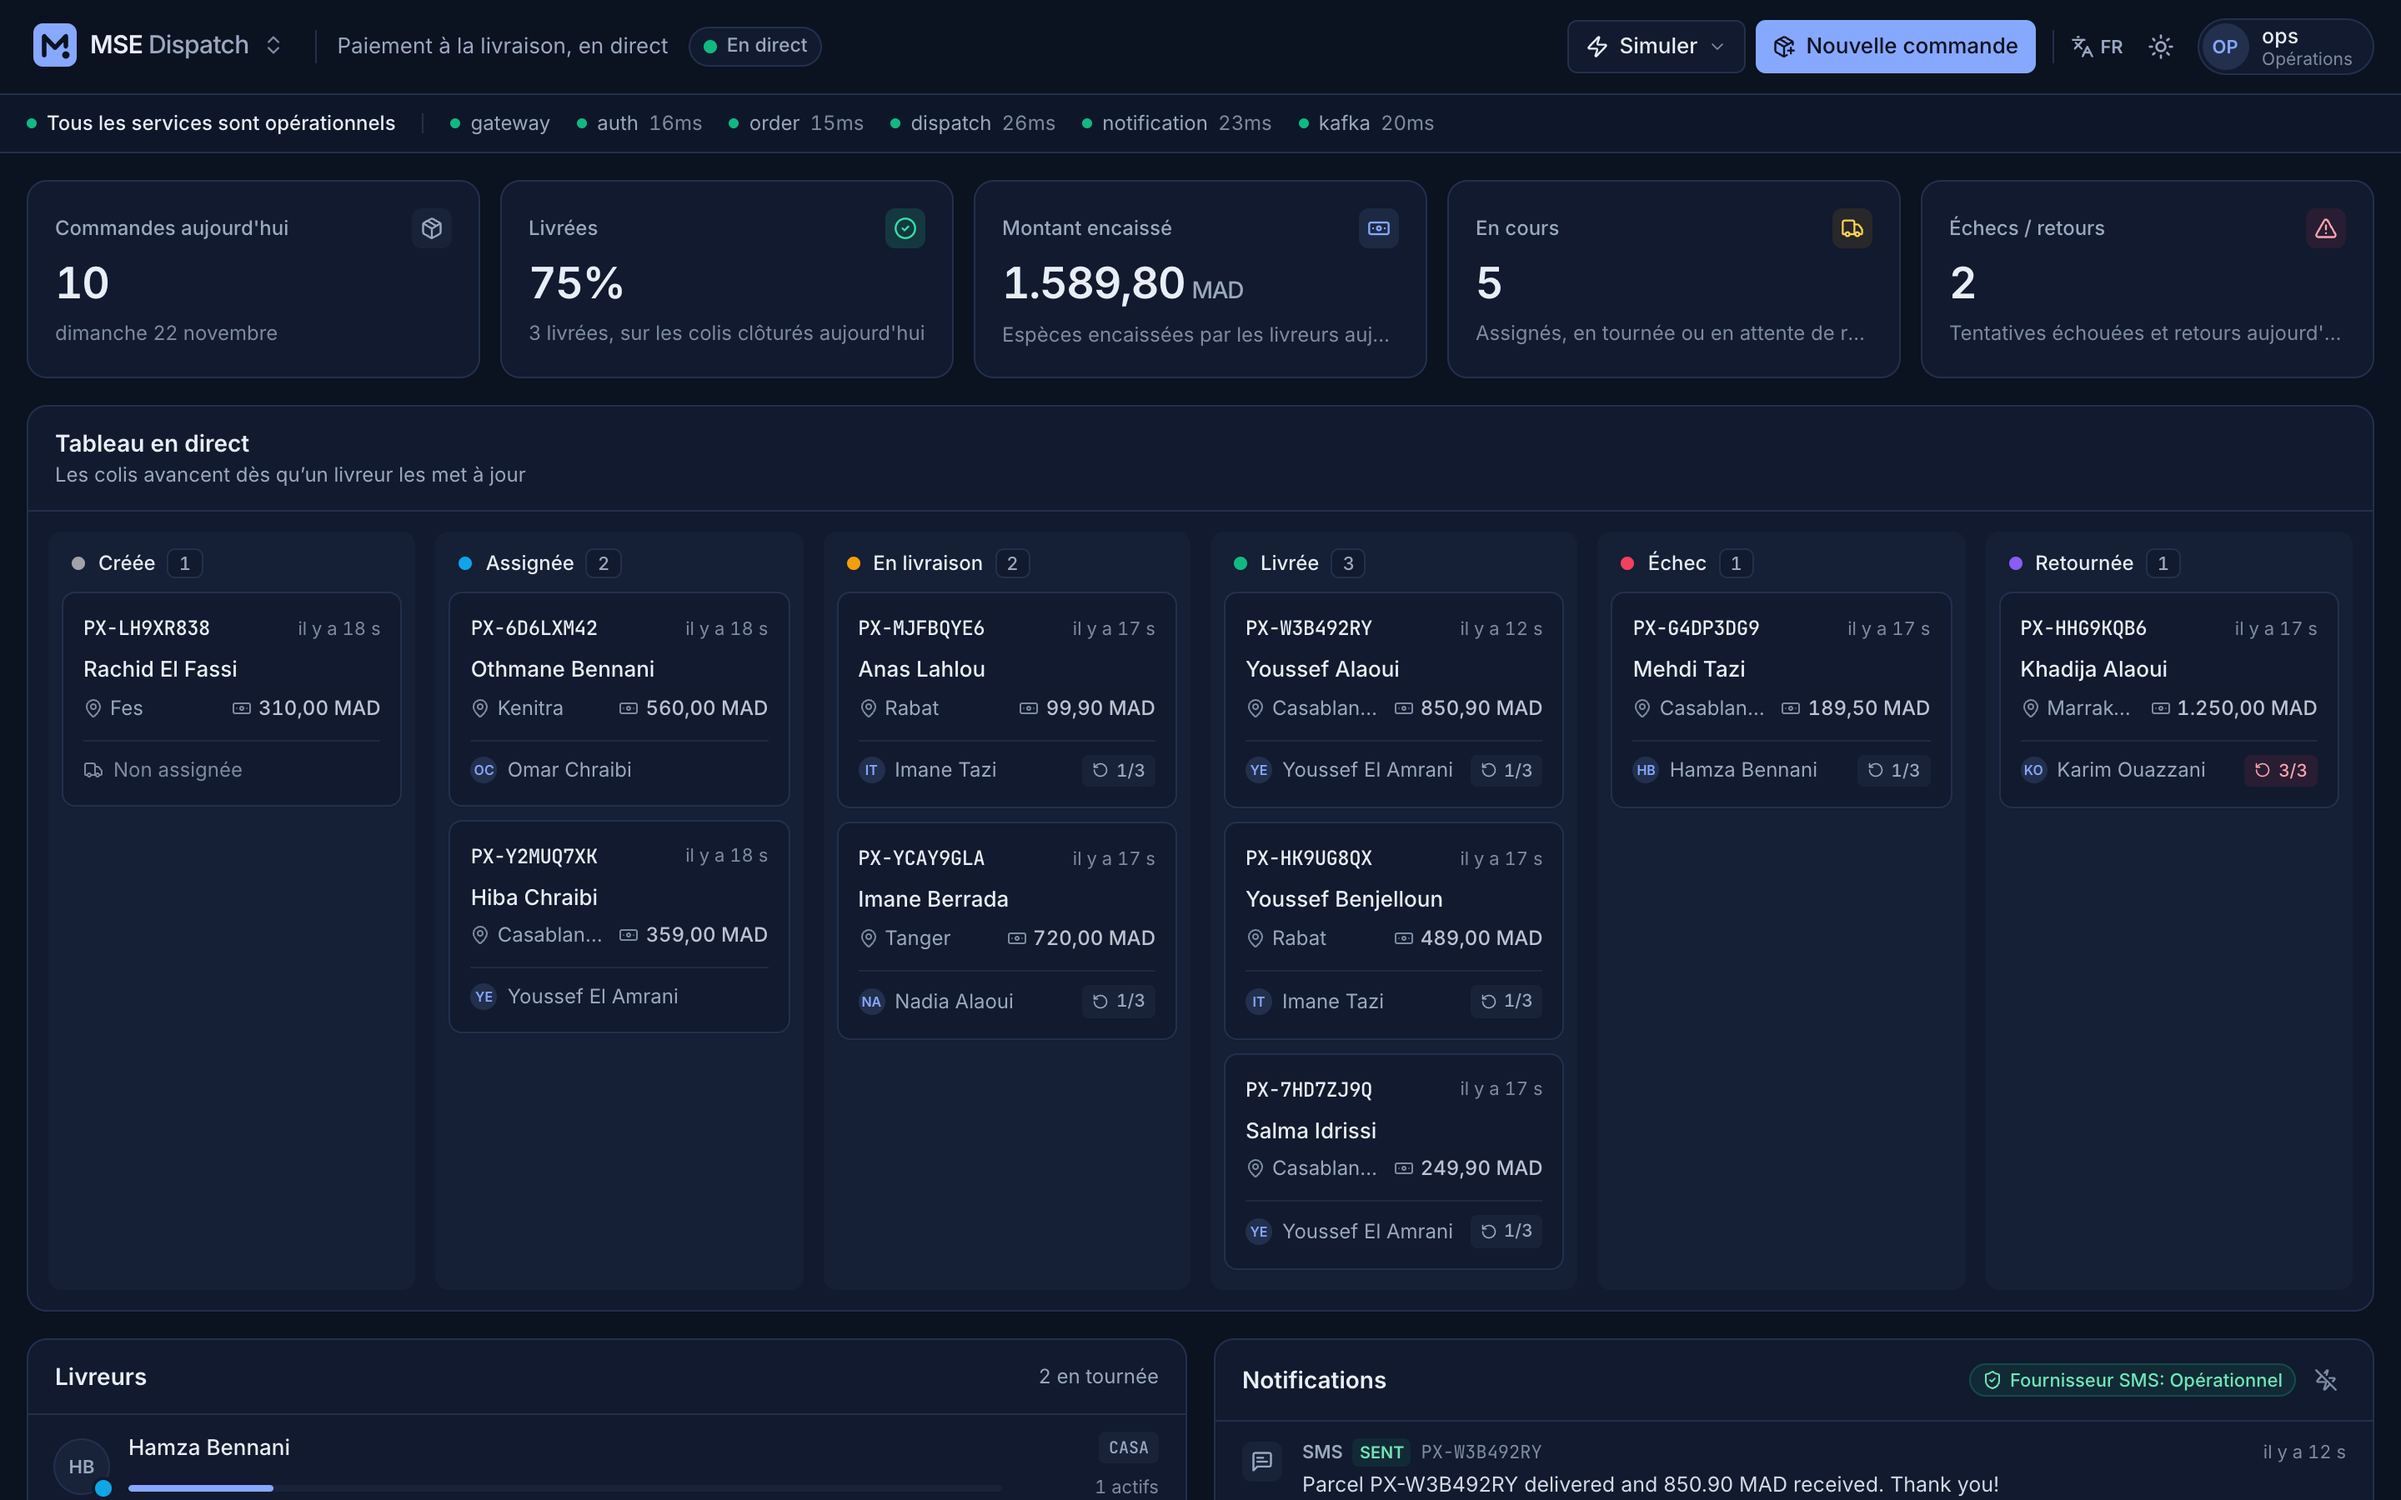
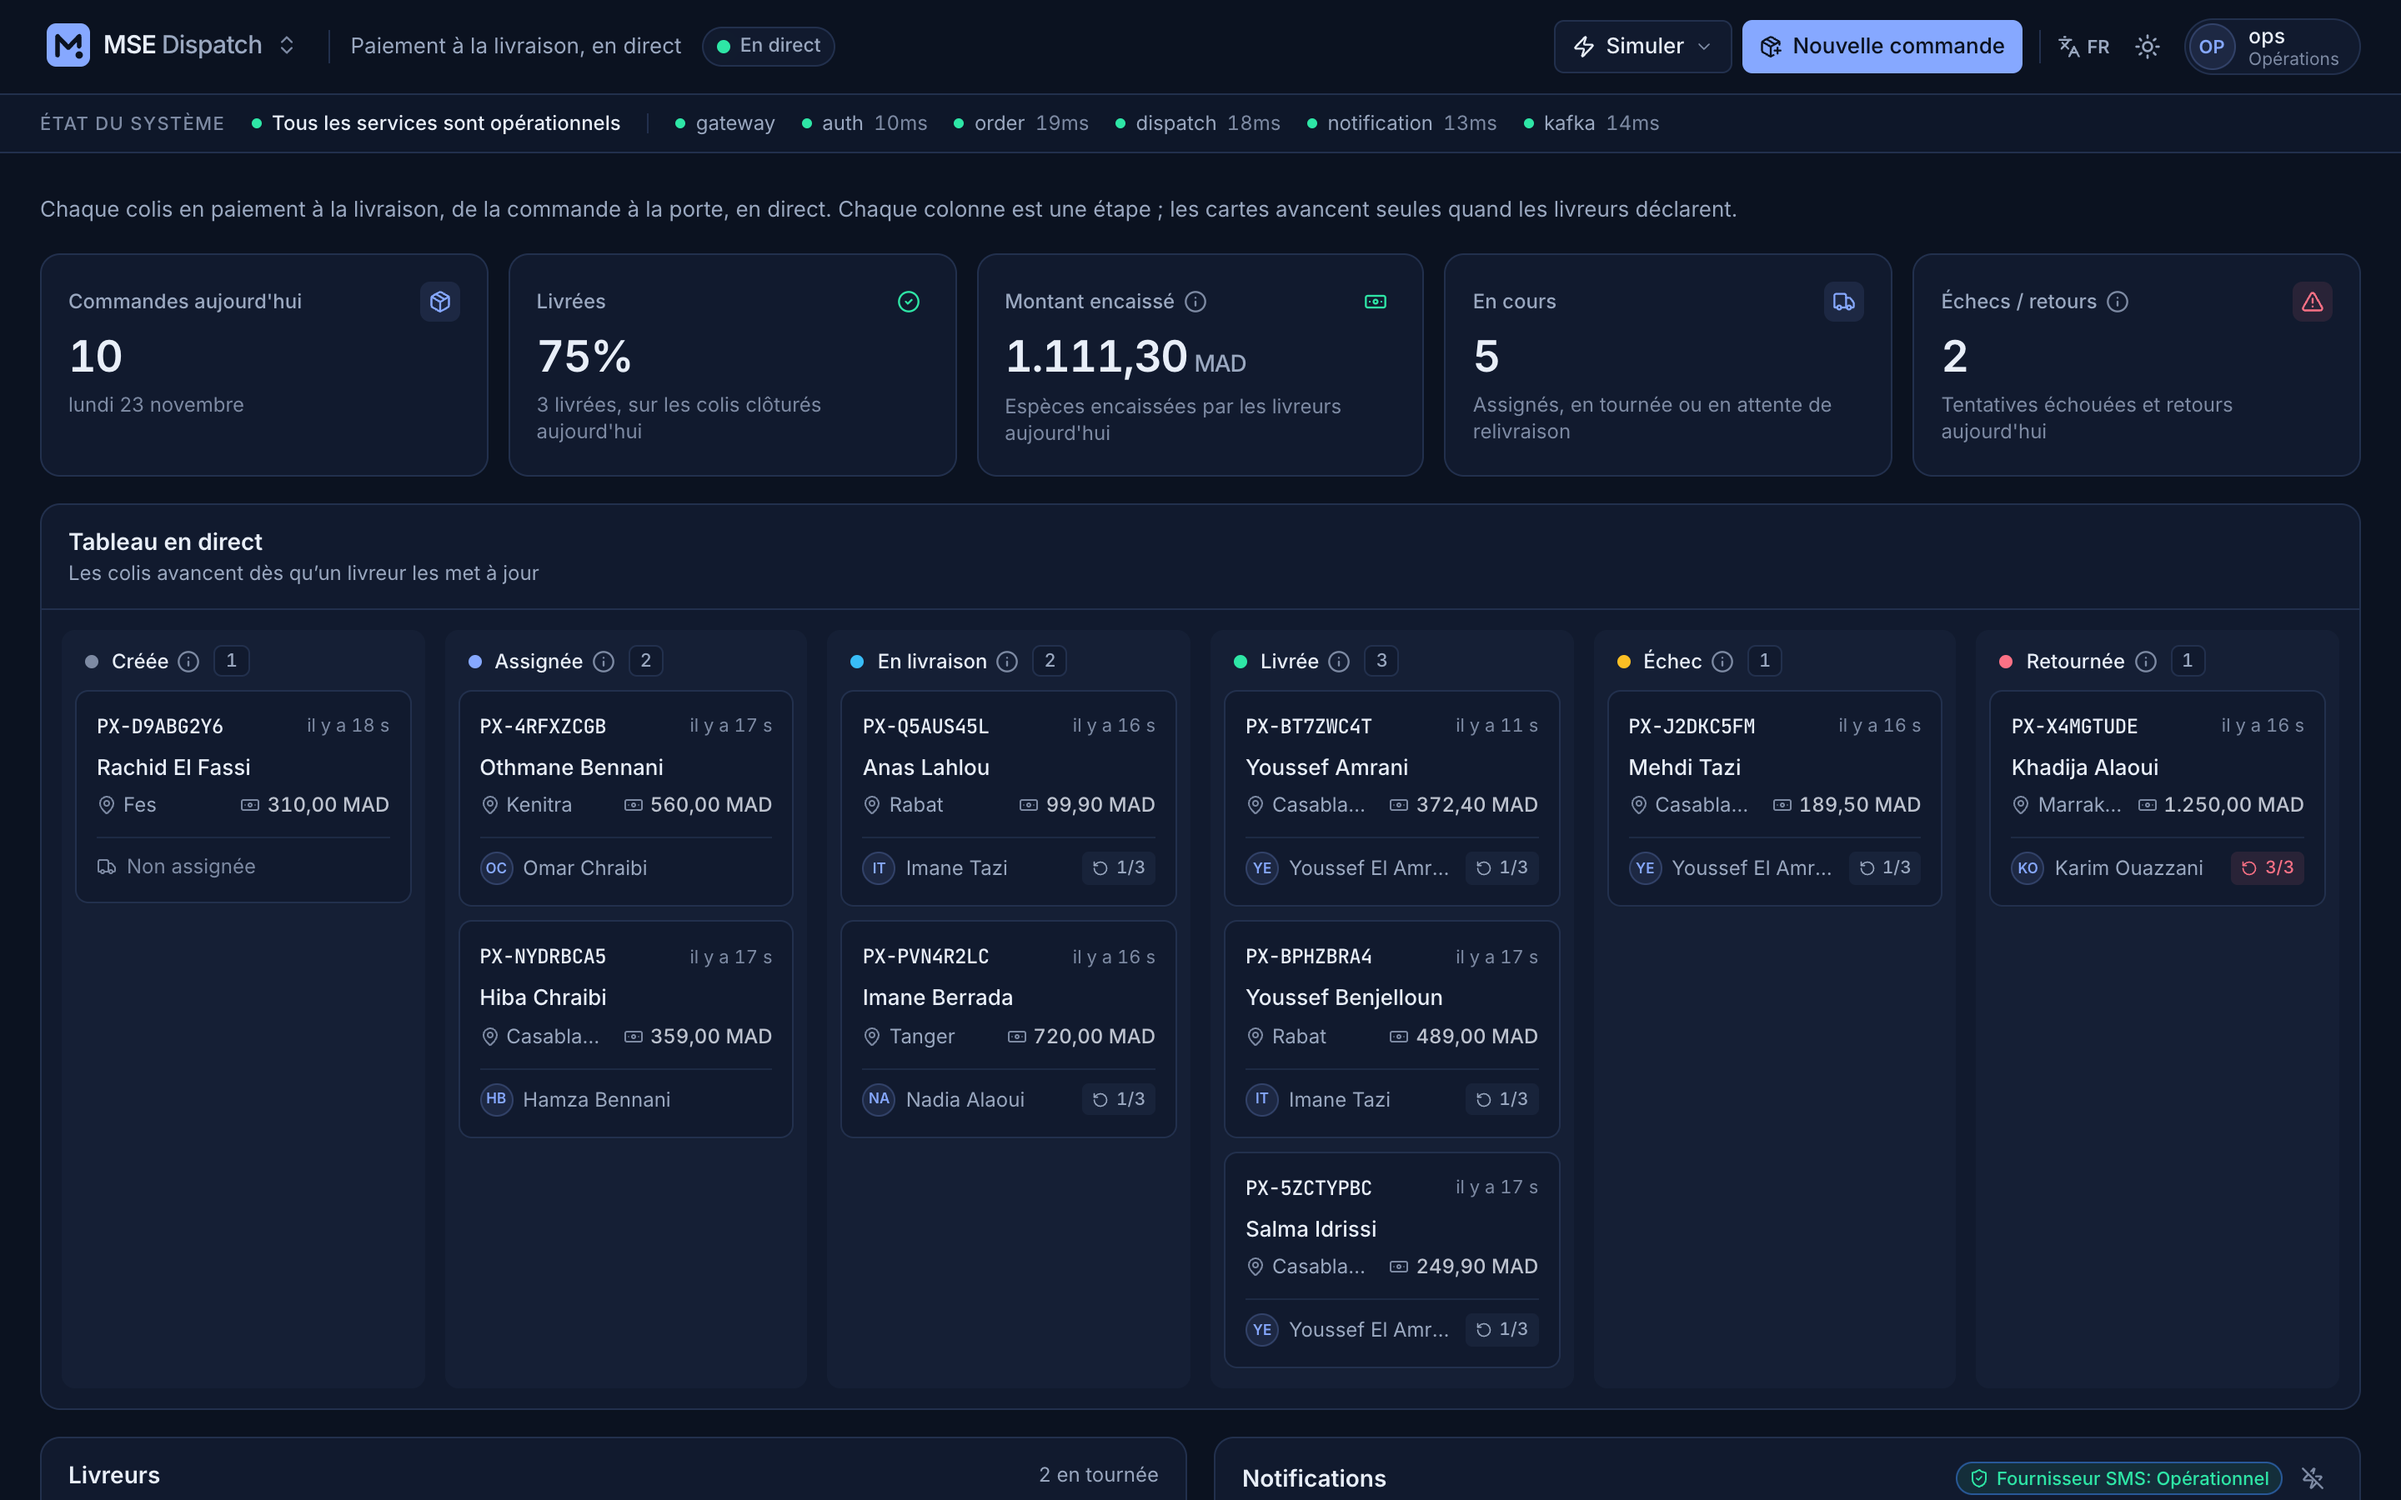
Docs: What is MSE Transport, the 2-minute tour, new screenshots

diff --git a/docs/TOUR.md b/docs/TOUR.md
@@ -1,0 +1,49 @@
+# MSE Dispatch: the 2-minute tour
+
+MSE Dispatch runs cash-on-delivery parcels from the order to the customer's door. Start it with
+`docker compose up -d --build`, wait about a minute, run `./scripts/seed-dashboard.sh`, and open
+http://localhost:3100.
+
+## 1. Sign in
+
+The operations account `ops` is filled in. Click **Sign in**.
+
+![Sign in](screenshots/login.png)
+
+## 2. Read the board
+
+- **System status** (top strip): every part of the platform is up.
+- **Five numbers for today**: orders, share delivered, cash collected (COD), parcels in transit, failures and returns.
+- **The live board**: one column per step, left to right: *Created → Assigned → Out for delivery →
+  Delivered*, or *Failed* (it will be retried) and finally *Returned* to the merchant. Hover the ⓘ
+  next to a column name for what it means. The **1/3** badge on a card is the delivery attempt
+  number out of the maximum.
+
+![Live board](screenshots/board.png)
+
+## 3. Watch a parcel move
+
+Click **Simulate → New order, delivered**. The card appears in *Created*, is assigned to a courier in
+the right zone about a second later, then moves to *Out for delivery* and *Delivered*. The numbers,
+courier load and customer messages update with it. **Simulate → New order, failed 3 times** shows a
+parcel that goes back to the merchant.
+
+## 4. Open a parcel
+
+Click any card: recipient, cash to collect, courier, attempts, and the timeline of every step and
+every SMS sent to the customer.
+
+![Order timeline](screenshots/order-timeline.png)
+
+## 5. Create an order
+
+**Create order** opens a form with Moroccan cities and phone formats; **Fill sample** fills it for you.
+
+![New order](screenshots/create-order.png)
+
+## 6. In French, in the dark
+
+The language and theme switches are in the header. Account menu → **How it works** shows how
+Dispatch fits with MSE Settle (the cash) and MSE Copilot (the questions).
+
+![Dark mode, French](screenshots/board-dark-fr.png)

diff --git a/README.md b/README.md
@@ -32,6 +32,38 @@ services that talk through Kafka, so each can change and scale on its own.
 
 ---
 
+## What is MSE Transport?
+
+MSE Transport is software for **cash-on-delivery (COD) e-commerce in Morocco**: the customer pays the
+courier in cash at the door, and the courier pays the merchant back later. Three products cover the
+whole journey of a parcel and its cash:
+
+```mermaid
+flowchart LR
+    A["Order created<br/><b>MSE Dispatch</b>"] --> B["Courier delivers<br/>and collects cash"]
+    B --> C["Courier sends a<br/>remittance statement (CSV)"]
+    C --> D["Reconciled line by line<br/><b>MSE Settle</b>"]
+    D --> E["Mismatches become<br/>disputes"]
+    D --> F["Questions answered<br/><b>MSE Copilot</b>"]
+    E --> F
+```
+
+- **MSE Dispatch** runs the deliveries: orders, courier assignment, attempts, customer SMS.
+- **MSE Settle** checks the courier's cash: every remittance line against the merchant's orders.
+- **MSE Copilot** answers questions about it in plain English or French, with checked figures.
+
+### Take the 2-minute tour
+
+1. `docker compose up -d --build`, wait about a minute, then `./scripts/seed-dashboard.sh`.
+2. Open http://localhost:3100 and click **Sign in** (the operations account `ops` is filled in).
+3. Read the board left to right: hover the ⓘ next to each column name to see what it means.
+4. Click **Simulate → New order, delivered**: the card moves from *Created* to *Delivered* on its own.
+5. Click any card to see its timeline: every step and every SMS sent to the customer.
+6. Click **Simulate → New order, failed 3 times** to watch a parcel go back to the merchant (*Returned*, 3/3).
+7. Account menu → **How it works** shows how Dispatch fits with Settle and Copilot.
+
+The same tour with screenshots: [`docs/TOUR.md`](docs/TOUR.md).
+
 ## The problem
 
 COD delivery has a few hard properties:
